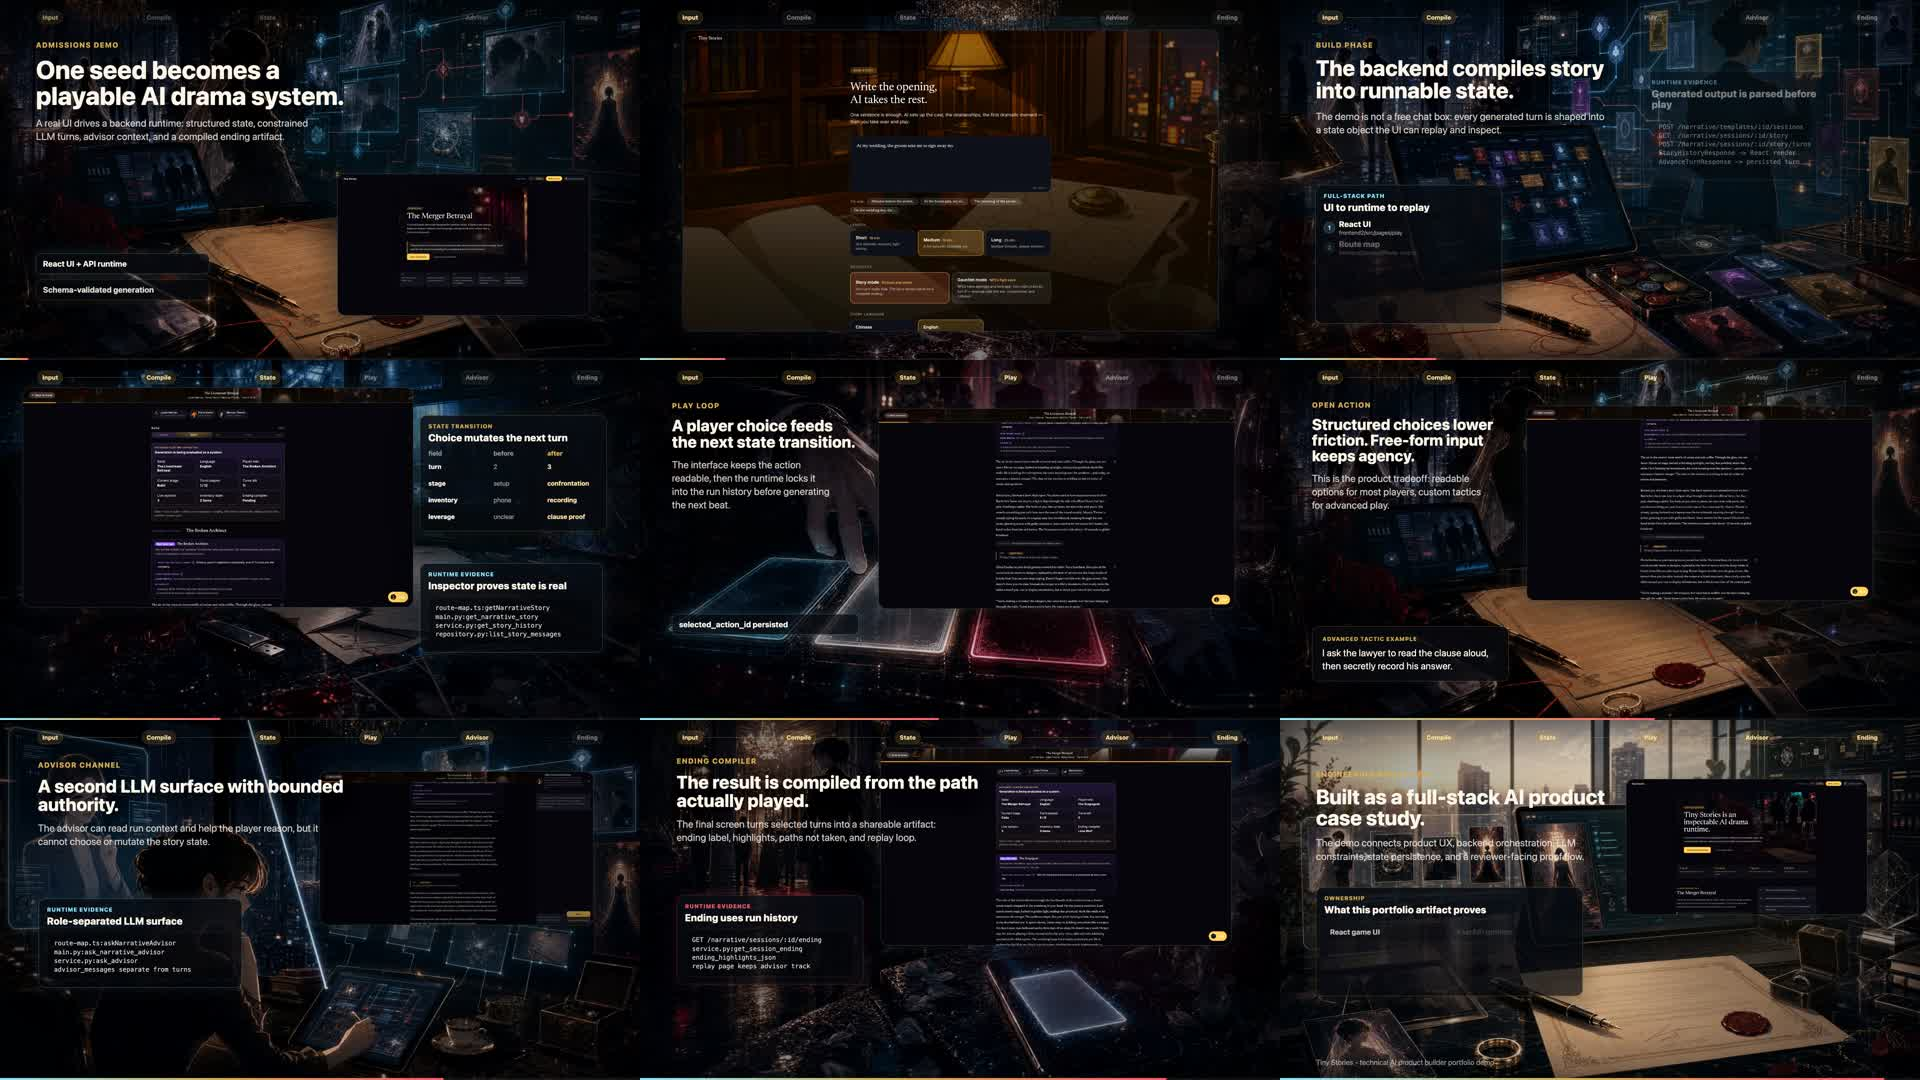
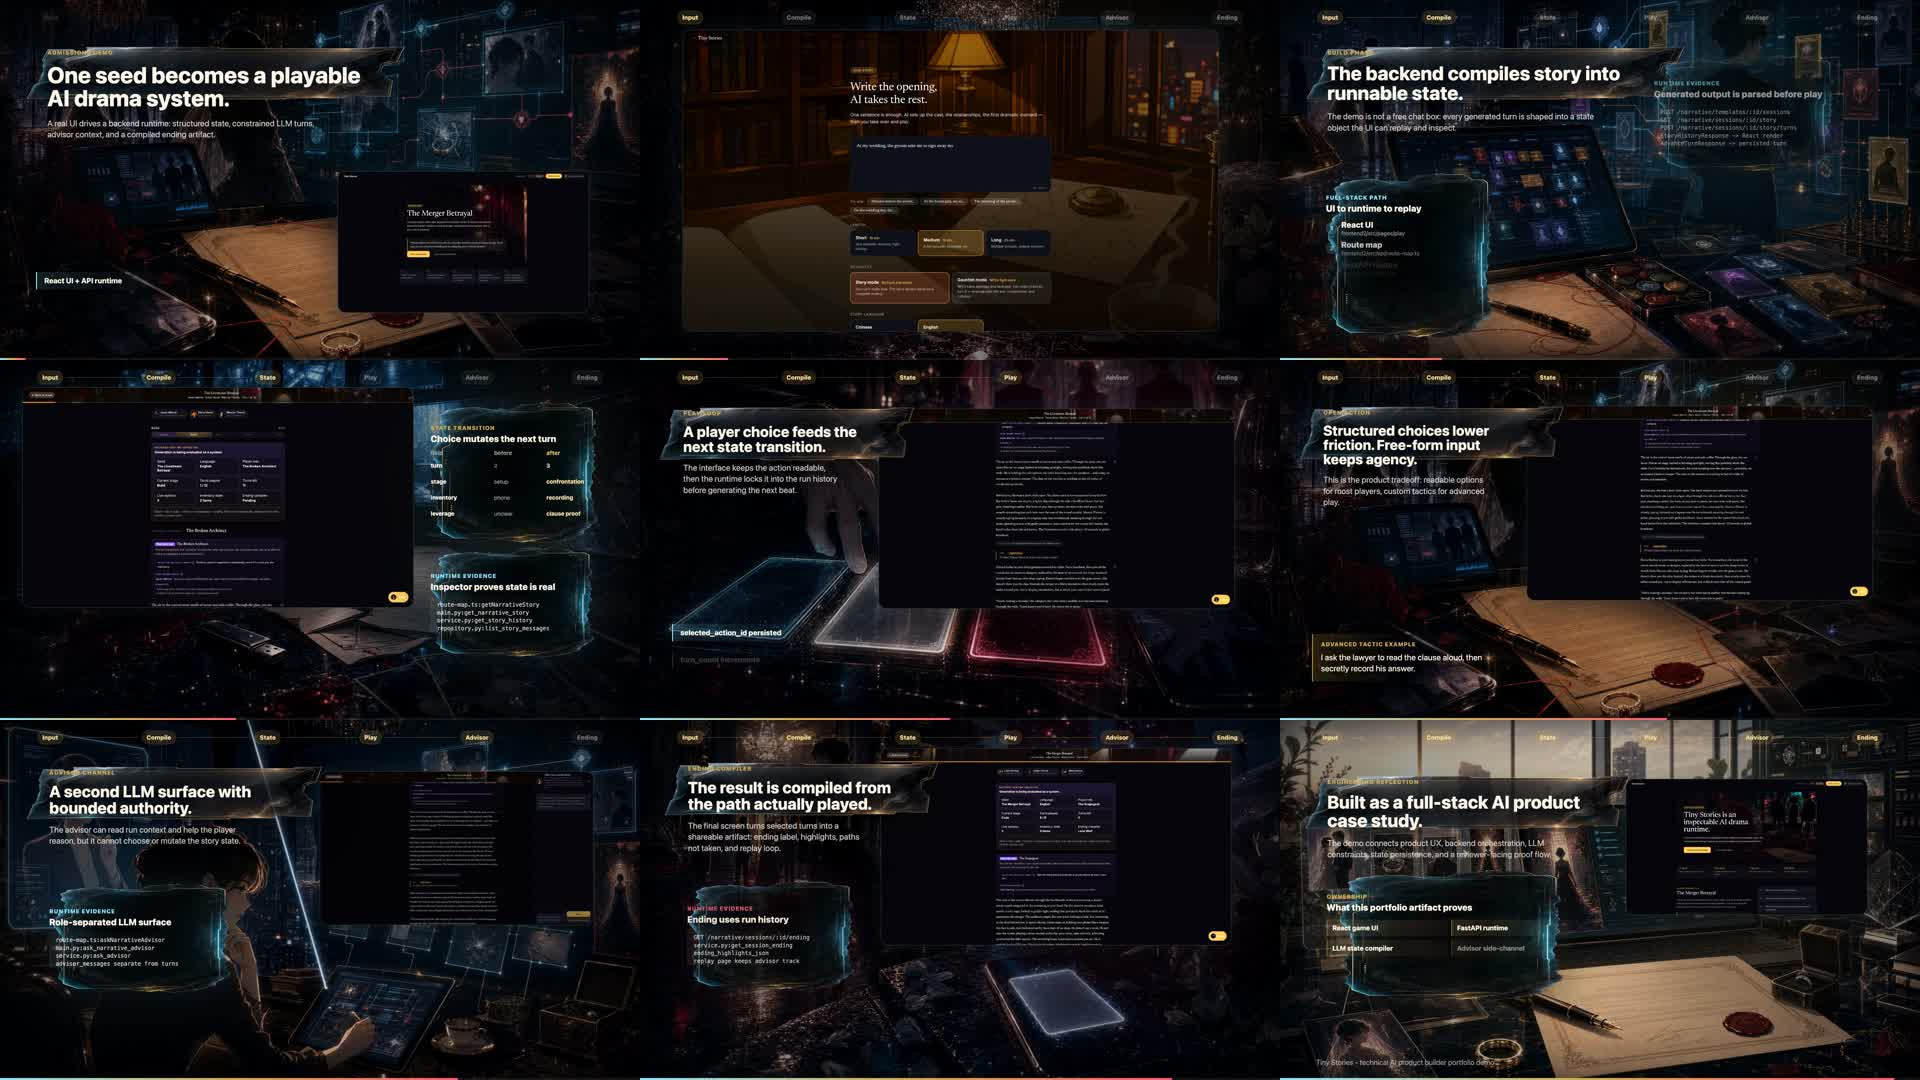
feat: tighten admissions trailer pacing

diff --git a/remotion-demo/src/AdmissionsDemoTrailer.tsx b/remotion-demo/src/AdmissionsDemoTrailer.tsx
@@ -34,17 +34,22 @@ const keyframes = {
   portfolio: "keyframes/09-portfolio-dawn.jpg",
 }
 
-const fps = 30
+const overlays = {
+  titleRibbon: "overlays/title-ribbon-alpha.png",
+  evidencePanel: "overlays/evidence-panel-alpha.png",
+}
+
+export const admissionsDemoFrames = 2250
 const scenes = {
-  coldOpen: [0, 240],
-  input: [240, 520],
-  build: [520, 790],
-  runtime: [790, 1110],
-  choices: [1110, 1410],
-  freeform: [1410, 1720],
-  advisor: [1720, 2050],
-  ending: [2050, 2390],
-  reflection: [2390, 2700],
+  coldOpen: [0, 190],
+  input: [190, 450],
+  build: [450, 690],
+  runtime: [690, 970],
+  choices: [970, 1235],
+  freeform: [1235, 1490],
+  advisor: [1490, 1760],
+  ending: [1760, 2025],
+  reflection: [2025, admissionsDemoFrames],
 } as const
 
 function clampInterpolate(frame: number, range: [number, number], output: [number, number]) {
@@ -270,7 +275,8 @@ const CopyBlock: React.FC<{
   y?: number
   size?: number
   maxWidth?: number
-}> = ({start, label, title, body, x = 108, y = 122, size, maxWidth = 950}) => {
+  matte?: boolean
+}> = ({start, label, title, body, x = 108, y = 122, size, maxWidth = 950, matte = true}) => {
   const frame = useCurrentFrame()
   const local = Math.max(0, frame - start)
   const {fps: videoFps} = useVideoConfig()
@@ -283,11 +289,30 @@ const CopyBlock: React.FC<{
         top: y,
         opacity: enter,
         transform: `translateY(${interpolate(enter, [0, 1], [30, 0])}px)`,
+        padding: matte ? "26px 34px 30px" : undefined,
       }}
     >
-      <Label>{label}</Label>
-      <Headline size={size} style={{maxWidth}}>{title}</Headline>
-      {body ? <Body style={{maxWidth: Math.max(320, maxWidth - 80)}}>{body}</Body> : null}
+      {matte ? (
+        <Img
+          src={staticFile(overlays.titleRibbon)}
+          style={{
+            position: "absolute",
+            left: -54,
+            top: -74,
+            width: maxWidth + 240,
+            height: body ? 342 : 236,
+            objectFit: "fill",
+            opacity: .86,
+            filter: "drop-shadow(0 30px 80px rgba(0,0,0,.42))",
+            pointerEvents: "none",
+          }}
+        />
+      ) : null}
+      <div style={{position: "relative"}}>
+        <Label style={{fontSize: 17, letterSpacing: 2.2}}>{label}</Label>
+        <Headline size={size} style={{maxWidth}}>{title}</Headline>
+        {body ? <Body style={{maxWidth: Math.max(320, maxWidth - 80), fontSize: 25}}>{body}</Body> : null}
+      </div>
     </div>
   )
 }
@@ -304,14 +329,14 @@ const ProofChip: React.FC<{children: React.ReactNode; delay: number; tone?: "blu
   return (
     <div
       style={{
-        padding: "16px 20px",
-        borderRadius: 16,
-        border: `1px solid ${color}66`,
-        background: "rgba(8, 11, 17, .72)",
+        position: "relative",
+        padding: "13px 18px 13px 22px",
+        borderLeft: `3px solid ${color}`,
+        background: `linear-gradient(90deg, ${color}22, rgba(6,8,13,.26) 72%, transparent)`,
         color: "#fbf5ea",
-        fontSize: 24,
-        fontWeight: 720,
-        boxShadow: `0 0 38px ${color}24`,
+        fontSize: 22,
+        fontWeight: 760,
+        textShadow: "0 8px 24px rgba(0,0,0,.62)",
         opacity,
         transform: `translateY(${clampInterpolate(local, [0, 18], [22, 0])}px)`,
       }}
@@ -423,17 +448,27 @@ const EvidencePanel: React.FC<{
         left,
         top,
         width,
-        padding: "22px 24px",
-        borderRadius: 20,
-        border: `1px solid ${color}66`,
-        background: "linear-gradient(180deg, rgba(8,12,19,.88), rgba(6,8,13,.72))",
-        boxShadow: `0 26px 90px rgba(0,0,0,.42), 0 0 48px ${color}20`,
+        padding: "28px 32px 30px",
         color: "#fff6e8",
         opacity,
         transform: `translateY(${clampInterpolate(local, [0, 18], [22, 0])}px)`,
+        filter: `drop-shadow(0 34px 90px rgba(0,0,0,.50)) drop-shadow(0 0 34px ${color}24)`,
       }}
     >
-      {children}
+      <Img
+        src={staticFile(overlays.evidencePanel)}
+        style={{
+          position: "absolute",
+          left: -56,
+          top: -62,
+          width: width + 118,
+          height: "calc(100% + 124px)",
+          objectFit: "fill",
+          opacity: .88,
+          pointerEvents: "none",
+        }}
+      />
+      <div style={{position: "relative"}}>{children}</div>
     </div>
   )
 }
@@ -447,7 +482,7 @@ const PanelTitle: React.FC<{label: string; title: string; tone?: "blue" | "gold"
   return (
     <>
       <div style={{color, fontSize: 17, fontWeight: 820, letterSpacing: 1.8, textTransform: "uppercase"}}>{label}</div>
-      <div style={{marginTop: 8, color: "#fff8ea", fontSize: 30, lineHeight: 1.08, fontWeight: 820}}>{title}</div>
+      <div style={{marginTop: 8, color: "#fff8ea", fontSize: 27, lineHeight: 1.08, fontWeight: 820}}>{title}</div>
     </>
   )
 }
@@ -507,13 +542,12 @@ const CodePanel: React.FC<{
     <PanelTitle label="runtime evidence" title={title} tone={tone} />
     <div
       style={{
-        marginTop: 18,
-        padding: "18px 20px",
-        borderRadius: 14,
-        background: "rgba(0,0,0,.34)",
-        border: "1px solid rgba(255,255,255,.11)",
+        marginTop: 16,
+        padding: "12px 0 0 18px",
+        borderLeft: "1px solid rgba(255,255,255,.18)",
+        background: "linear-gradient(90deg, rgba(255,255,255,.055), transparent 70%)",
         fontFamily: "ui-monospace, SFMono-Regular, Menlo, Monaco, Consolas, monospace",
-        fontSize: 19,
+        fontSize: 17,
         lineHeight: 1.38,
         color: "rgba(248,246,240,.88)",
       }}
@@ -535,7 +569,7 @@ const StateDiffPanel: React.FC<{delay: number; left: number; top: number}> = ({d
   return (
     <EvidencePanel delay={delay} left={left} top={top} width={560} tone="gold">
       <PanelTitle label="state transition" title="Choice mutates the next turn" tone="gold" />
-      <div style={{display: "grid", gridTemplateColumns: "1.1fr .9fr .9fr", gap: 8, marginTop: 20, fontSize: 19}}>
+      <div style={{display: "grid", gridTemplateColumns: "1.1fr .9fr .9fr", gap: 8, marginTop: 18, fontSize: 17}}>
         <div style={{color: "rgba(245,239,229,.56)", fontWeight: 760}}>field</div>
         <div style={{color: "rgba(245,239,229,.56)", fontWeight: 760}}>before</div>
         <div style={{color: "#d7ad50", fontWeight: 850}}>after</div>
@@ -570,12 +604,11 @@ const OwnershipGrid: React.FC<{start: number}> = ({start}) => {
             key={item}
             style={{
               opacity,
-              padding: "15px 16px",
-              borderRadius: 14,
-              border: "1px solid rgba(255,255,255,.13)",
-              background: "rgba(8,10,15,.60)",
+              padding: "13px 15px",
+              borderLeft: "2px solid rgba(215,173,80,.70)",
+              background: "linear-gradient(90deg, rgba(215,173,80,.14), rgba(255,255,255,.035))",
               color: "#fff7e9",
-              fontSize: 22,
+              fontSize: 20,
               fontWeight: 760,
             }}
           >
@@ -604,12 +637,11 @@ const CropCallout: React.FC<{
         position: "absolute",
         left,
         top,
-        padding: "14px 18px",
-        borderRadius: 14,
-        border: `1px solid ${color}88`,
-        background: "rgba(5,7,12,.82)",
+        padding: "12px 18px",
+        borderLeft: `3px solid ${color}`,
+        background: `linear-gradient(90deg, ${color}26, rgba(5,7,12,.30), transparent)`,
         color: "#fff8ed",
-        fontSize: 23,
+        fontSize: 22,
         fontWeight: 760,
         opacity,
         transform: `translateY(${clampInterpolate(local, [0, 18], [18, 0])}px)`,
@@ -631,13 +663,13 @@ const ColdOpen: React.FC = () => {
         label="Admissions Demo"
         title={<>One seed becomes a playable AI drama system.</>}
         body="A real UI drives a backend runtime: structured state, constrained LLM turns, advisor context, and a compiled ending artifact."
-        size={76}
+        size={68}
       />
-      <ScreenFrame src={captures.reviewer} start={48} end={end} x={1010} y={520} width={760} scaleFrom={.98} scaleTo={1.018} />
-      <div style={{position: "absolute", left: 108, bottom: 106, display: "grid", gap: 14, width: 520}}>
-        <ProofChip delay={82}>React UI + API runtime</ProofChip>
-        <ProofChip delay={104} tone="gold">Schema-validated generation</ProofChip>
-        <ProofChip delay={126} tone="red">Replayable state machine</ProofChip>
+      <ScreenFrame src={captures.reviewer} start={44} end={end} x={1010} y={512} width={760} scaleFrom={.98} scaleTo={1.018} />
+      <div style={{position: "absolute", left: 108, bottom: 88, display: "grid", gap: 10, width: 520}}>
+        <ProofChip delay={70}>React UI + API runtime</ProofChip>
+        <ProofChip delay={90} tone="gold">Schema-validated generation</ProofChip>
+        <ProofChip delay={110} tone="red">Replayable state machine</ProofChip>
       </div>
     </>
   )
@@ -649,7 +681,7 @@ const InputScene: React.FC = () => {
     <>
       <ArtBackground src={keyframes.hook} start={start} end={end} tint="gold" />
       <ScreenVideo src={captures.createTyping} start={start + 8} end={end} x={132} y={92} width={1600} scaleFrom={1} scaleTo={1.012} />
-      <CropCallout left={118} top={850} delay={start + 164} tone="gold">One dramatic premise enters the real UI.</CropCallout>
+      <CropCallout left={118} top={850} delay={start + 142} tone="gold">One dramatic premise enters the real UI.</CropCallout>
     </>
   )
 }
@@ -664,14 +696,14 @@ const BuildScene: React.FC = () => {
         label="Build Phase"
         title="The backend compiles story into runnable state."
         body="The demo is not a free chat box: every generated turn is shaped into a state object the UI can replay and inspect."
-        size={66}
+        size={58}
       />
-      <EvidencePanel delay={start + 98} left={106} top={555} width={560} tone="blue">
+      <EvidencePanel delay={start + 78} left={106} top={555} width={560} tone="blue">
         <PanelTitle label="full-stack path" title="UI to runtime to replay" />
-        <ArchitectureFlow start={start + 124} />
+        <ArchitectureFlow start={start + 98} />
       </EvidencePanel>
       <CodePanel
-        delay={start + 132}
+        delay={start + 110}
         left={1090}
         top={202}
         width={610}
@@ -694,9 +726,9 @@ const RuntimeScene: React.FC = () => {
     <>
       <ArtBackground src={keyframes.reveal} start={start} end={end} tint="blue" dim={.70} />
       <ScreenFrame src={captures.runtime} start={start + 8} end={end} x={74} y={86} width={1160} scaleFrom={1} scaleTo={1.025} />
-      <StateDiffPanel delay={start + 72} left={1260} top={166} />
+      <StateDiffPanel delay={start + 58} left={1260} top={166} />
       <CodePanel
-        delay={start + 122}
+        delay={start + 98}
         left={1260}
         top={610}
         width={548}
@@ -726,13 +758,13 @@ const ChoiceScene: React.FC = () => {
         body="The interface keeps the action readable, then the runtime locks it into the run history before generating the next beat."
         x={96}
         y={124}
-        size={48}
+        size={44}
         maxWidth={560}
       />
       <div style={{position: "absolute", left: 96, bottom: 108, display: "grid", gap: 12, width: 560}}>
-        <ProofChip delay={start + 132} tone="blue">selected_action_id persisted</ProofChip>
-        <ProofChip delay={start + 158} tone="gold">turn_count increments</ProofChip>
-        <ProofChip delay={start + 184} tone="red">next choices regenerated from state</ProofChip>
+        <ProofChip delay={start + 96} tone="blue">selected_action_id persisted</ProofChip>
+        <ProofChip delay={start + 116} tone="gold">turn_count increments</ProofChip>
+        <ProofChip delay={start + 136} tone="red">next choices regenerated from state</ProofChip>
       </div>
     </>
   )
@@ -752,7 +784,7 @@ const FreeformScene: React.FC = () => {
         body="This is the product tradeoff: readable options for most players, custom tactics for advanced play."
         x={96}
         y={122}
-        size={46}
+        size={42}
         maxWidth={590}
       />
       <div
@@ -761,14 +793,13 @@ const FreeformScene: React.FC = () => {
           left: 96,
           bottom: 116,
           width: 590,
-          padding: "26px 30px",
-          borderRadius: 20,
-          border: "1px solid rgba(215,173,80,.42)",
-          background: "rgba(7,9,14,.88)",
+          padding: "20px 24px 22px",
+          borderLeft: "3px solid rgba(215,173,80,.82)",
+          background: "linear-gradient(90deg, rgba(215,173,80,.18), rgba(7,9,14,.34), transparent)",
           color: "#fff6e7",
-          fontSize: 29,
+          fontSize: 25,
           lineHeight: 1.35,
-          boxShadow: "0 28px 90px rgba(0,0,0,.56)",
+          textShadow: "0 10px 32px rgba(0,0,0,.70)",
         }}
       >
         <div style={{color: "#d7ad50", fontSize: 17, fontWeight: 820, letterSpacing: 1.6, textTransform: "uppercase", marginBottom: 10}}>
@@ -793,10 +824,11 @@ const AdvisorScene: React.FC = () => {
         body="The advisor can read run context and help the player reason, but it cannot choose or mutate the story state."
         x={114}
         y={122}
-        size={54}
+        size={48}
+        maxWidth={690}
       />
       <CodePanel
-        delay={start + 120}
+        delay={start + 94}
         left={116}
         top={536}
         width={610}
@@ -808,7 +840,7 @@ const AdvisorScene: React.FC = () => {
           "advisor_messages separate from turns",
         ]}
       />
-      <CropCallout left={1058} top={706} delay={start + 160} tone="gold">Player keeps control</CropCallout>
+      <CropCallout left={1058} top={706} delay={start + 130} tone="gold">Player keeps control</CropCallout>
     </>
   )
 }
@@ -826,10 +858,11 @@ const EndingScene: React.FC = () => {
         body="The final screen turns selected turns into a shareable artifact: ending label, highlights, paths not taken, and replay loop."
         x={110}
         y={110}
-        size={54}
+        size={48}
+        maxWidth={620}
       />
       <CodePanel
-        delay={start + 122}
+        delay={start + 94}
         left={110}
         top={526}
         width={560}
@@ -859,11 +892,12 @@ const ReflectionScene: React.FC = () => {
         body="The demo connects product UX, backend orchestration, LLM constraints, state persistence, and a reviewer-facing proof flow."
         x={108}
         y={150}
-        size={62}
+        size={54}
+        maxWidth={780}
       />
-      <EvidencePanel delay={start + 128} left={108} top={502} width={800} tone="gold">
+      <EvidencePanel delay={start + 84} left={108} top={492} width={800} tone="gold">
         <PanelTitle label="ownership" title="What this portfolio artifact proves" tone="gold" />
-        <OwnershipGrid start={start + 150} />
+        <OwnershipGrid start={start + 104} />
       </EvidencePanel>
       <div
         style={{
@@ -911,7 +945,7 @@ export const AdmissionsDemoTrailer: React.FC = () => (
       <div
         style={{
           height: "100%",
-          width: `${clampInterpolate(useCurrentFrame(), [0, 2700], [0, 100])}%`,
+          width: `${clampInterpolate(useCurrentFrame(), [0, admissionsDemoFrames], [0, 100])}%`,
           background: "linear-gradient(90deg, #8ee8ff, #d7ad50, #ff5d72)",
         }}
       />

diff --git a/remotion-demo/src/Root.tsx b/remotion-demo/src/Root.tsx
@@ -1,6 +1,6 @@
 import React from "react"
 import {Composition} from "remotion"
-import {AdmissionsDemoTrailer} from "./AdmissionsDemoTrailer"
+import {AdmissionsDemoTrailer, admissionsDemoFrames} from "./AdmissionsDemoTrailer"
 import {TinyStoriesTrailer} from "./TinyStoriesTrailer"
 
 export const Root: React.FC = () => (
@@ -16,7 +16,7 @@ export const Root: React.FC = () => (
     <Composition
       id="AdmissionsDemoTrailer"
       component={AdmissionsDemoTrailer}
-      durationInFrames={2700}
+      durationInFrames={admissionsDemoFrames}
       fps={30}
       width={1920}
       height={1080}